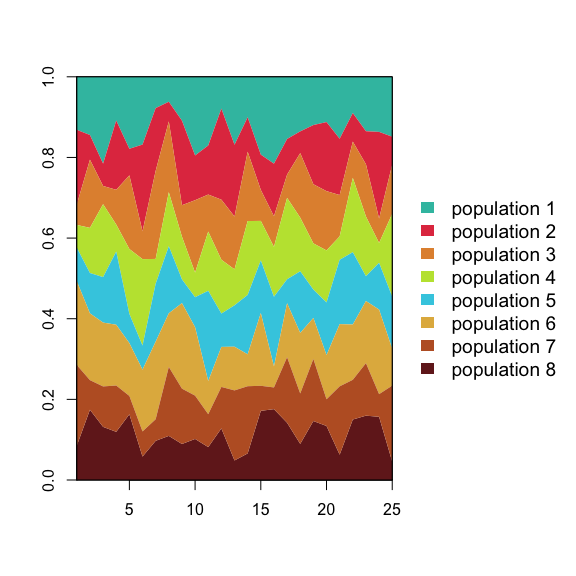
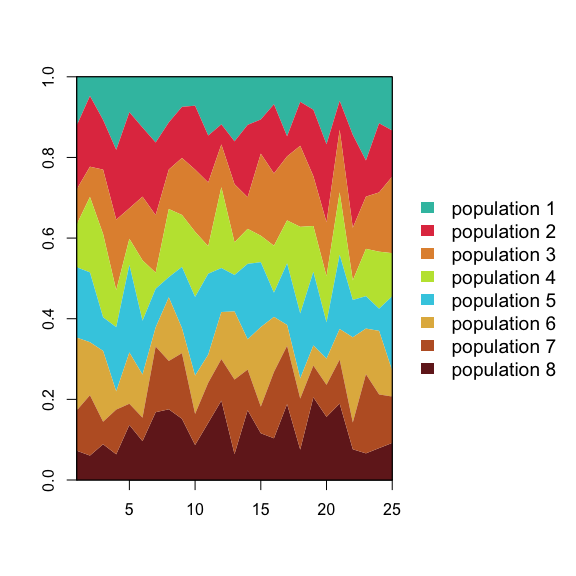
update readme

Changed region(s): [[0.125, 0.1562, 0.6875, 0.8125], [0.125, 0.4375, 0.1562, 0.4688]]

diff --git a/README.md b/README.md
@@ -7,6 +7,8 @@ Description
 
 *graphicsutils* is an R package that includes a set of graphical functions. As the [*plotrix*](http://cran.r-project.org/web/packages/plotrix/index.html) package, it adds several graphics utilities based on the core package *graphics*. Note that this package is not intended to be sumitted to the CRAN. First, because many of these functions already exist in other packages (in a different form though). Second, because I use it to improve my coding skill and my experience in writing a R package. This allows me to make some functions disappearing without me explaining why! Nevertheless, this package may help users to deal with typical issues they may encounter when using *graphics*. If some of these functions turn out to be really helpful then they will likely appear in a different package which will be submitted to the CRAN. Also, *graphicsutils* is not intended to be used with [ggplot2](http://cran.r-project.org/web/packages/ggplot2/index.html) package.
 
+-   Functions are written using Camel case (e.g. `keepWords()`)
+
 Install
 =======
 
@@ -35,7 +37,7 @@ To start a figure from scratch it is often useful to get a plot without nothing 
 plot0(c(0,1),c(0,1))
 ```
 
-![](inst/assets/img/unnamed-chunk-4-1.png)<!-- -->
+![](inst/assets/img/unnamed-chunk-4-1.png)
 
 Empty isn't it? Also, it can be filled with a given color using `fill` parameter.
 
@@ -43,7 +45,7 @@ Empty isn't it? Also, it can be filled with a given color using `fill` parameter
 plot0(c(0,1),c(0,1), fill="lightskyblue1")
 ```
 
-![](inst/assets/img/unnamed-chunk-5-1.png)<!-- -->
+![](inst/assets/img/unnamed-chunk-5-1.png)
 
 Add a box
 ---------
@@ -59,7 +61,7 @@ axis(1)
 axis(2)
 ```
 
-![](inst/assets/img/unnamed-chunk-6-1.png)<!-- -->
+![](inst/assets/img/unnamed-chunk-6-1.png)
 
 A stacked areas chart
 ---------------------
@@ -76,7 +78,7 @@ seqy3 <- 8+0.25*seqx*runif(sz, 0, 1)
 envelop(seqx, seqy1, seqy2, col="grey85", border=NA)
 ```
 
-![](inst/assets/img/unnamed-chunk-7-1.png)<!-- -->
+![](inst/assets/img/unnamed-chunk-7-1.png)
 
 ### A complete stacked areas
 
@@ -85,7 +87,7 @@ x <- data.frame(matrix(runif(200,2,10), 8, 25))
 stackedAreas(x)
 ```
 
-![](inst/assets/img/unnamed-chunk-8-1.png)<!-- -->
+![](inst/assets/img/unnamed-chunk-8-1.png)
 
 Polar plot
 ----------
@@ -94,7 +96,7 @@ Polar plot
 polarPlot(1:40, stats::runif(40), to=1.9*pi, col="grey30", border="grey80")
 ```
 
-![](inst/assets/img/unnamed-chunk-9-1.png)<!-- -->
+![](inst/assets/img/unnamed-chunk-9-1.png)
 
 Get pretty ranges
 -----------------
@@ -102,9 +104,9 @@ Get pretty ranges
 ``` r
 vec <- stats::runif(20)
 range(vec)
-#> [1] 0.01366101 0.99597210
+#> [1] 0.01122804 0.90363674
 prettyRange(vec)
-#> [1] 0 1
+#> [1] 0.00 0.95
 prettyRange(c(3.85,3.88245))
 #> [1] 3.850 3.885
 ```
@@ -132,14 +134,14 @@ someblue <- darken("blue", 10*1:9)
 showPalette(someblue)
 ```
 
-![](inst/assets/img/unnamed-chunk-13-1.png)<!-- -->
+![](inst/assets/img/unnamed-chunk-13-1.png)
 
 ``` r
 somered <- lighten("red", 10*1:9)
 showPalette(somered)
 ```
 
-![](inst/assets/img/unnamed-chunk-14-1.png)<!-- -->
+![](inst/assets/img/unnamed-chunk-14-1.png)
 
 License
 =======
